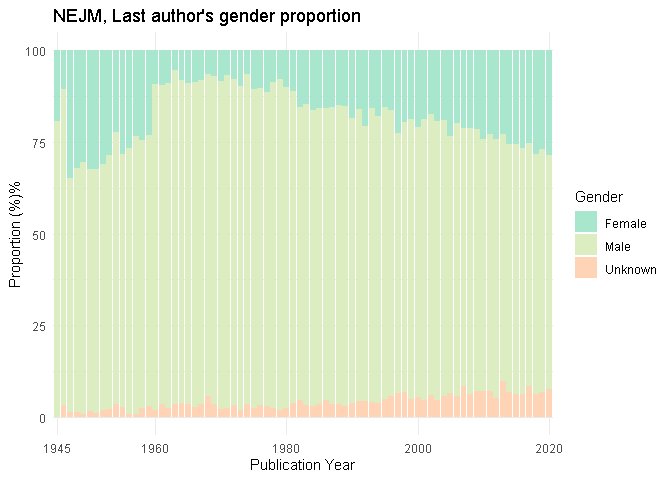
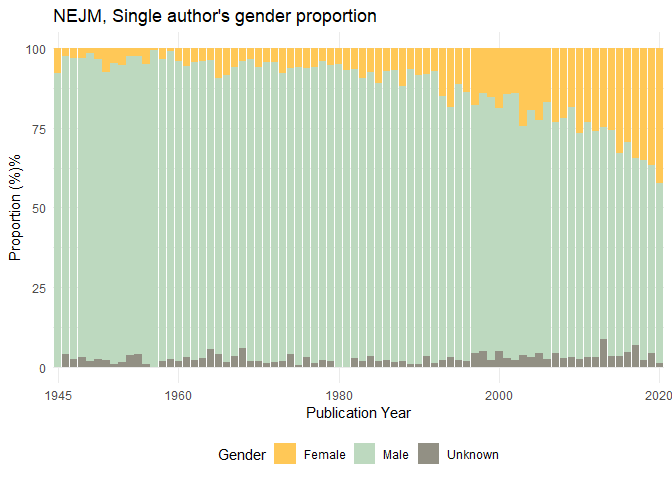
Update readme and color blind palette

diff --git a/README.md b/README.md
@@ -3,16 +3,26 @@
 
 Data was collected from all publications registered in pubmed, from the
 New England Journal of Medicine, from 1945 to 2020. (Raw data available
-at [01\_data]())
+at
+[01\_data](https://github.com/palolili23/pubmed_webscrap/tree/master/01_data))
 
-I extracted the bibtex from each paper with a doi using the package
-[rcrossref](https://github.com/ropensci/rcrossref). The default setting
-was used since it has complete names for all authors. The code for this
-step can be found in
+Since all publications only had first name initials, I used the package
+[rcrossref](https://github.com/ropensci/rcrossref), function `cr_cn`,
+which gets citation in various formats from CrossRef and only requires
+the DOI. Before pulling the citations, I [registered for the Polite
+Pool](https://github.com/ropensci/rcrossref#register-for-the-polite-pool)
+as good practices, and requires setting my email account in the
+Renviron. I used the `cr_cn` with the default setting, which pulls
+article data in [bibtex](https://en.wikipedia.org/wiki/BibTeX) format,
+which has complete names for all authors. The code for this step can be
+found in
 [`02_r/extract_bib`](https://github.com/palolili23/pubmed_webscrap/blob/master/02_r/extract_bib.R).
+I did it in batches of \~10000 and saved the new dataframes with the
+bibtex data as .Rda, they can be found at
+[01b\_clean\_data](https://github.com/palolili23/pubmed_webscrap/tree/master/01b_clean_data).
 
-Once every paper with the specific bibtex information, these are the
-next steps to clean the data:
+Once all papers had their bibtex information, I followed the next steps
+to clean the data:
 
 ``` r
 library(tidyverse)
@@ -146,8 +156,8 @@ data <- data %>% mutate(
   author = str_remove(author, "\\},")
 )
 
-## Separate authors into multiple columns
-## Create as many rows as authors for each paper
+## Separate authors into multiple columns using the split_into_multiple function. 
+## Create as many rows as authors for each paper using pivot_longer
 
 split_into_multiple <- function(column, pattern = ", ", into_prefix){
   cols <- str_split_fixed(column, pattern, n = Inf)
@@ -168,8 +178,8 @@ data_authors <- data %>%
     names_prefix = "author_") %>% 
   drop_na(author_name)
 
-# Some authors only have initials, these will be excluded
 
+# Some authors only have initials instead of complete first names, these will be excluded
 # Separate first and last name
 
 data_authors <- data_authors %>% 
@@ -284,10 +294,25 @@ Dorfman
 
 #### Find gender for each author
 
-I use the [`gender` package](https://github.com/ropensci/gender), by
-Mullen, L. (2019). gender: Predict Gender from Names Using Historical
-Data. R package version 0.5.3, and the U.S. Social Security
-Administration baby names database.
+To identify the gender of each author, I use the [`gender`
+package](https://github.com/ropensci/gender), by Mullen, L. (2019).
+gender: Predict Gender from Names Using Historical Data. R package
+version 0.5.3 and the U.S. Social Security Administration baby names
+database. To use the `gender` function, the package asks to download the
+`genderdata` package, but installation can be tricky as discussed in
+this [post](github.com/ropensci/drat/issues/6). I downloaded the package
+using `devtools::install_github("ropensci/genderdata")` command.
+
+*Considerations*: This package attempts to infer gender (or more
+precisely, sex assigned at birth) based on first names using historical
+data. This method has many limitations as discussed
+[here](https://github.com/ropensci/gender#guidelines-and-warnings),
+which include its reliance of data created by the state and its
+inability to see beyond the state-imposed gender binary and is meant to
+be used for studying populations in the aggregate. This method is a
+rough approach and can missclassify gender or exclude individual
+authors, but it can give a picture of the gender bias within the large
+dataset.
 
 ``` r
 names <- data_filtered %>% count(first_name) %>% pull(first_name)
@@ -485,6 +510,18 @@ with missing DOI
 
 ![](README_files/figure-gfm/unnamed-chunk-5-1.png)<!-- -->![](README_files/figure-gfm/unnamed-chunk-5-2.png)<!-- -->
 
+For the following plots I will make slight changes to the gender
+variable:
+
+``` r
+data_filtered <- data_filtered %>% 
+  mutate(
+    `Publication Year` = as_factor(`Publication Year`),
+    gender = ifelse(is.na(gender), "unknown", gender), 
+    gender = ifelse(is.na(gender), "unknown", gender), 
+    gender = str_to_title(gender)) 
+```
+
 ## Gender proportion over time
 
 ``` r
@@ -494,26 +531,19 @@ count_gender <- data_filtered %>%
   mutate(prop = round(100*n/sum(n), 2)) %>% 
   ungroup()
 
-count_gender %>% 
-  mutate(
-    `Publication Year` = as_factor(`Publication Year`),
-    gender = ifelse(is.na(gender), "unknown", gender), 
-    gender = ifelse(is.na(gender), "unknown", gender), 
-    gender = str_to_title(gender)) %>% 
+count_gender %>%
   ggplot(aes(`Publication Year`, prop, fill = gender)) +
   geom_col() +
-  scale_fill_manual(values = c("#A8E6CE", "#DCEDC2", "#FFD3B5" )) +
+  scale_fill_manual(values = c("#FFC857", "#BDD9BF", "#929084")) +
   theme_minimal() +
-  labs(
-    title = "NEJM, author's gender proportion",
-    y = "Proportion (%)%",
-    fill = "Gender") +
-    scale_x_discrete(
-    breaks=c("1945", "1960", "1980", "2000", "2020")
-  )
+  labs(title = "NEJM, author's gender proportion",
+     y = "Proportion (%)%",
+     fill = "Gender") +
+  scale_x_discrete(breaks = c("1945", "1960", "1980", "2000", "2020")) +
+    theme(legend.position = "bottom")
 ```
 
-![](README_files/figure-gfm/unnamed-chunk-6-1.png)<!-- -->
+![](README_files/figure-gfm/unnamed-chunk-7-1.png)<!-- -->
 
 ## First author´s gender proportion over time
 
@@ -526,24 +556,20 @@ count_gender_first <- data_filtered %>%
   ungroup()
 
 count_gender_first %>% 
-  mutate(
-    `Publication Year` = as_factor(`Publication Year`),
-    gender = ifelse(is.na(gender), "unknown", gender), 
-    gender = str_to_title(gender)) %>% 
   ggplot(aes(`Publication Year`, prop, fill = gender)) +
   geom_col() +
-  scale_fill_manual(values = c("#A8E6CE", "#DCEDC2", "#FFD3B5" )) +
+  scale_fill_manual(values = c("#FFC857", "#BDD9BF", "#929084")) +
   theme_minimal() +
   labs(
     title = "NEJM, first author's gender proportion",
     y = "Proportion (%)%",
     fill = "Gender") +
     scale_x_discrete(
-    breaks=c("1945", "1960", "1980", "2000", "2020")
-  )
+    breaks=c("1945", "1960", "1980", "2000", "2020")) +
+    theme(legend.position = "bottom")
 ```
 
-![](README_files/figure-gfm/unnamed-chunk-7-1.png)<!-- -->
+![](README_files/figure-gfm/unnamed-chunk-8-1.png)<!-- -->
 
 ## Single author´s proportion over time
 
@@ -559,13 +585,9 @@ count_single <- data_filtered %>%
   ungroup()
 
 count_single %>% 
-  mutate(
-    `Publication Year` = as_factor(`Publication Year`),
-    gender = ifelse(is.na(gender), "unknown", gender), 
-    gender = str_to_title(gender)) %>% 
   ggplot(aes(`Publication Year`, prop, fill = gender)) +
   geom_col() +
-  scale_fill_manual(values = c("#A8E6CE", "#DCEDC2", "#FFD3B5" )) +
+  scale_fill_manual(values = c("#FFC857", "#BDD9BF", "#929084")) +
   theme_minimal() +
   labs(
     title = "NEJM, Single author's gender proportion",
@@ -573,10 +595,11 @@ count_single %>%
     fill = "Gender") +
     scale_x_discrete(
     breaks=c("1945", "1960", "1980", "2000", "2020")
-  )
+  ) +
+    theme(legend.position = "bottom")
 ```
 
-![](README_files/figure-gfm/unnamed-chunk-8-1.png)<!-- -->
+![](README_files/figure-gfm/unnamed-chunk-9-1.png)<!-- -->
 
 ## Last author’s gender proportion
 
@@ -591,13 +614,9 @@ count_last<- data_filtered %>%
   ungroup()
 
 count_last %>% 
-  mutate(
-    `Publication Year` = as_factor(`Publication Year`),
-    gender = ifelse(is.na(gender), "unknown", gender), 
-    gender = str_to_title(gender)) %>% 
   ggplot(aes(`Publication Year`, prop, fill = gender)) +
   geom_col() +
-  scale_fill_manual(values = c("#A8E6CE", "#DCEDC2", "#FFD3B5" )) +
+  scale_fill_manual(values = c("#FFC857", "#BDD9BF", "#929084")) +
   theme_minimal() +
   labs(
     title = "NEJM, Last author's gender proportion",
@@ -605,7 +624,8 @@ count_last %>%
     fill = "Gender") +
     scale_x_discrete(
     breaks=c("1945", "1960", "1980", "2000", "2020")
-  )
+  ) +
+    theme(legend.position = "bottom")
 ```
 
-![](README_files/figure-gfm/unnamed-chunk-9-1.png)<!-- -->
+![](README_files/figure-gfm/unnamed-chunk-10-1.png)<!-- -->
